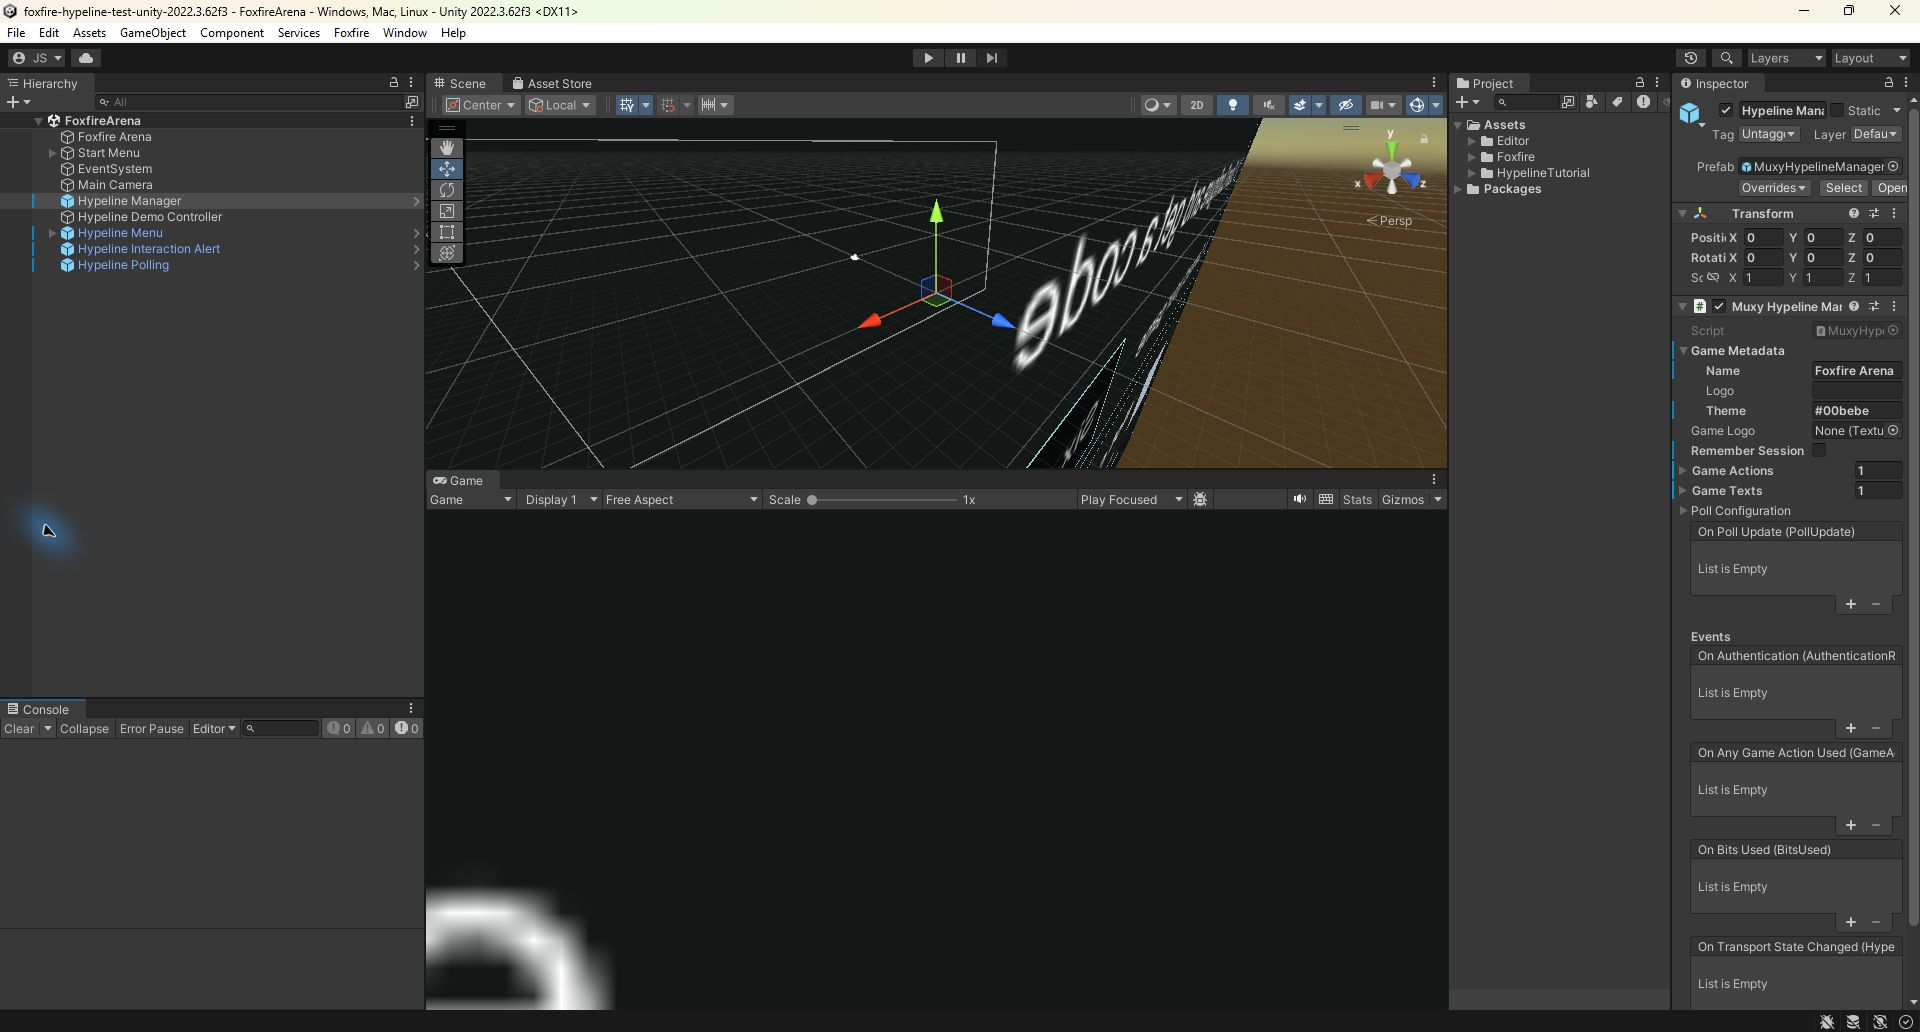
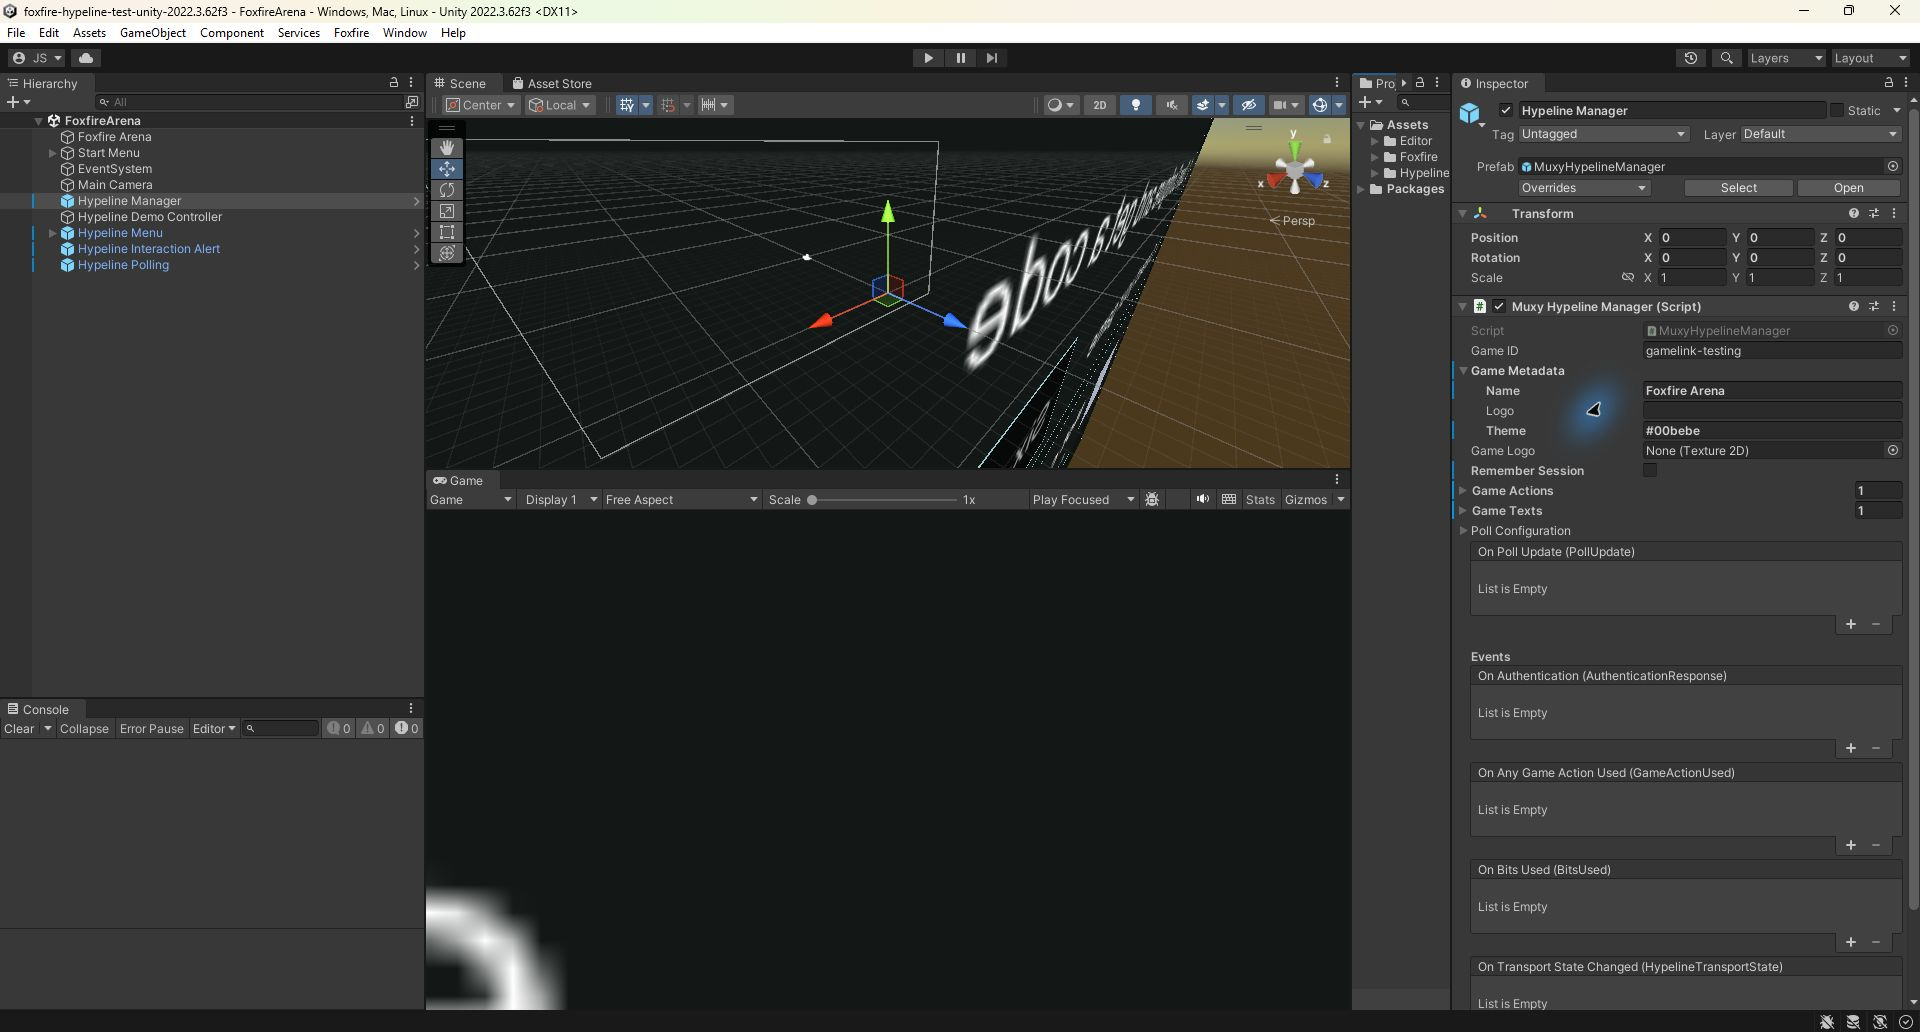
Expose the Hypeline game ID in the manager

diff --git a/Documentation~/index.html b/Documentation~/index.html
@@ -83,12 +83,12 @@
       <div class="section-label">HYPELINE PREFABS</div><h2>Add the menu and interaction alerts</h2>
       <p>Use these prefabs to add a creator-facing <b>Stream Interactivity</b> button to a main menu and show viewer actions in the game. Both connect to the same manager and existing Hypeline service.</p>
       <ol class="steps">
-        <li><strong>Add the manager.</strong> Open <b>Packages → Muxy Hypeline → Prefabs</b> and drag <code>MuxyHypelineManager</code> into the scene Hierarchy. Reuse an existing manager if there is one; keep only one active. Select the manager in the scene Hierarchy, expand <b>Game Metadata</b> in the Inspector, and configure your game name and actions. Package assets are read-only; edit the scene instance.</li>
+        <li><strong>Add the manager.</strong> Open <b>Packages → Muxy Hypeline → Prefabs</b> and drag <code>MuxyHypelineManager</code> into the scene Hierarchy. Reuse an existing manager if there is one; keep only one active. Select the manager in the scene Hierarchy. In <b>Game ID</b>, use the prefilled <code>gamelink-testing</code> for testing or enter your game's own ID before Play mode. Expand <b>Game Metadata</b> to configure your game name and actions. Package assets are read-only; edit the scene instance.</li>
         <li><strong>Add the menu.</strong> Drag <code>MuxyHypelineMenu</code> into the main-menu scene. Select it and drag the scene's manager into its <b>Hypeline Manager</b> Inspector field. Enter a <b>Game Description</b> and adjust <b>Menu Button Position</b> and <b>Menu Button Size</b> to fit your menu. The Twitch indicator lights up when connected; TikTok remains dim while its integration is coming soon.</li>
         <li><strong>Add the alert.</strong> Drag <code>MuxyHypelineInteractionAlert</code> into the scene where viewer actions should appear. Select it and assign the same scene manager to <b>Hypeline Manager</b> before Play mode. Adjust <b>Position</b>, <b>Size</b>, colors, <b>Play Sounds</b>, volume, or optional category sound clips in the Inspector.</li>
         <li><strong>Prepare the UI.</strong> Keep exactly one EventSystem in the scene, with an input module compatible with the project's active input system. The Hypeline prefabs use Unity UI and do not require TextMesh Pro. You can place them under a screen-space Canvas; without a parent Canvas, each creates an overlay Canvas at runtime. The menu has editable UI children; alert cards are built during Play mode.</li>
       </ol>
-      <figure class="capture"><a class="capture-zoom" href="assets/screenshots/unity-2022-manager.jpg" target="_blank" rel="noopener" aria-label="Enlarge screenshot: Unity 2022 Hierarchy with Hypeline prefabs and the scene manager metadata in the Inspector"><img src="assets/screenshots/unity-2022-manager.jpg" alt="Unity 2022 Hierarchy with Hypeline prefabs and the scene manager metadata in the Inspector" loading="lazy"></a><figcaption>Unity 2022: select the manager in the scene Hierarchy to edit its metadata. This example uses the Foxfire tutorial project.</figcaption></figure>
+      <figure class="capture"><a class="capture-zoom" href="assets/screenshots/unity-2022-manager.jpg?v=game-id" target="_blank" rel="noopener" aria-label="Enlarge screenshot: Unity 2022 Hierarchy with Hypeline prefabs and the scene manager Game ID and metadata in the Inspector"><img src="assets/screenshots/unity-2022-manager.jpg?v=game-id" alt="Unity 2022 Hierarchy with Hypeline prefabs and the scene manager Game ID and metadata in the Inspector" loading="lazy"></a><figcaption>Unity 2022: select the manager in the scene Hierarchy to edit its Game ID and metadata. This example uses the Foxfire tutorial project.</figcaption></figure>
       <div class="callout"><strong>One manager, one EventSystem</strong><p>Use the Hypeline menu for creator connections and assign it the scene's single manager. Keep exactly one active EventSystem with the appropriate input module. TikTok is coming soon; Twitch is the available connection.</p></div>
       <h3>Connect a Twitch channel</h3>
       <ol class="steps">
@@ -109,7 +109,7 @@
     <section id="scene">
       <div class="section-label">STEP 02</div><h2>Set up your Hypeline scene</h2>
       <p>Use the <a href="#hypeline-prefabs">Hypeline menu</a> as the connection interface and one <code>MuxyHypelineManager</code> prefab as the SDK owner. Its component is named <code>MuxyHypelineManager</code>. You can add these prefabs to an existing game or a fresh test scene.</p>
-      <ol class="steps"><li><strong>Add the manager and menu.</strong> Drag <code>MuxyHypelineManager</code> and <code>MuxyHypelineMenu</code> into the scene and assign the manager to the menu's <b>Hypeline Manager</b> field before Play mode. </li><li><strong>Prepare input.</strong> Keep exactly one active EventSystem with an input module compatible with your project. The Hypeline menu does not create an EventSystem.</li><li><strong>Set game metadata.</strong> Select the manager in the scene Hierarchy, expand <b>Game Metadata</b> in the Inspector, and set a game name and theme. A logo texture is optional for the first test. The prefab in the package is read-only; edit its scene instance.</li><li><strong>Add a Health game text.</strong> In the manager's <b>Game Texts</b>, create element 0 with <b>Label</b> = <code>Health</code>, <b>Value</b> = <code>50</code>, and <b>Icon</b> = <code>fa-solid:heart</code>. The sample updates this entry.</li><li><strong>Add the action sample.</strong> Download <a href="examples/HypelineActionDemo.cs" download>HypelineActionDemo.cs</a> into <code>Assets/Scripts</code>. Attach it to a new <code>HypelineDemoController</code> GameObject and assign the same manager. This optional sample provides health and poll test controls; it does not create a second connection interface. The debug controls hide while the Hypeline connection panel is open.</li><li><strong>Enable input for the optional sample.</strong> Its debug buttons use Unity's legacy IMGUI input. If your project uses only the new Input System, select <b>Both</b> in <b>Player → Other Settings → Active Input Handling</b> and restart the Editor if prompted. This is required by the sample controls, not by the Hypeline panel.</li></ol>
+      <ol class="steps"><li><strong>Add the manager and menu.</strong> Drag <code>MuxyHypelineManager</code> and <code>MuxyHypelineMenu</code> into the scene and assign the manager to the menu's <b>Hypeline Manager</b> field before Play mode. On the manager, leave <b>Game ID</b> as <code>gamelink-testing</code> for this walkthrough, or enter your game's ID before starting Play mode. </li><li><strong>Prepare input.</strong> Keep exactly one active EventSystem with an input module compatible with your project. The Hypeline menu does not create an EventSystem.</li><li><strong>Set game metadata.</strong> Select the manager in the scene Hierarchy, expand <b>Game Metadata</b> in the Inspector, and set a game name and theme. A logo texture is optional for the first test. The prefab in the package is read-only; edit its scene instance.</li><li><strong>Add a Health game text.</strong> In the manager's <b>Game Texts</b>, create element 0 with <b>Label</b> = <code>Health</code>, <b>Value</b> = <code>50</code>, and <b>Icon</b> = <code>fa-solid:heart</code>. The sample updates this entry.</li><li><strong>Add the action sample.</strong> Download <a href="examples/HypelineActionDemo.cs" download>HypelineActionDemo.cs</a> into <code>Assets/Scripts</code>. Attach it to a new <code>HypelineDemoController</code> GameObject and assign the same manager. This optional sample provides health and poll test controls; it does not create a second connection interface. The debug controls hide while the Hypeline connection panel is open.</li><li><strong>Enable input for the optional sample.</strong> Its debug buttons use Unity's legacy IMGUI input. If your project uses only the new Input System, select <b>Both</b> in <b>Player → Other Settings → Active Input Handling</b> and restart the Editor if prompted. This is required by the sample controls, not by the Hypeline panel.</li></ol>
       <details class="code-details"><summary>View the Hypeline action sample script <span>C#</span></summary><div class="code-heading"><span>HypelineActionDemo.cs</span><a href="examples/HypelineActionDemo.cs" download>Download</a></div><!-- example:HypelineActionDemo.cs --><pre><code class="language-csharp">using MuxyHypeline;
 using UnityEngine;
 

diff --git a/Prefabs/MuxyHypelineManager.cs b/Prefabs/MuxyHypelineManager.cs
@@ -9,7 +9,8 @@ using UnityEngine.Events;
 public class MuxyHypelineManager : MonoBehaviour
 {
 
-    [HideInInspector]
+    [InspectorName("Game ID")]
+    [Tooltip("The ID for this game. Set it before Play mode; use gamelink-testing while testing.")]
     public String GameID = "gamelink-testing";
 
     [SerializeField] private GameMetadata GameMetadata = new GameMetadata();
